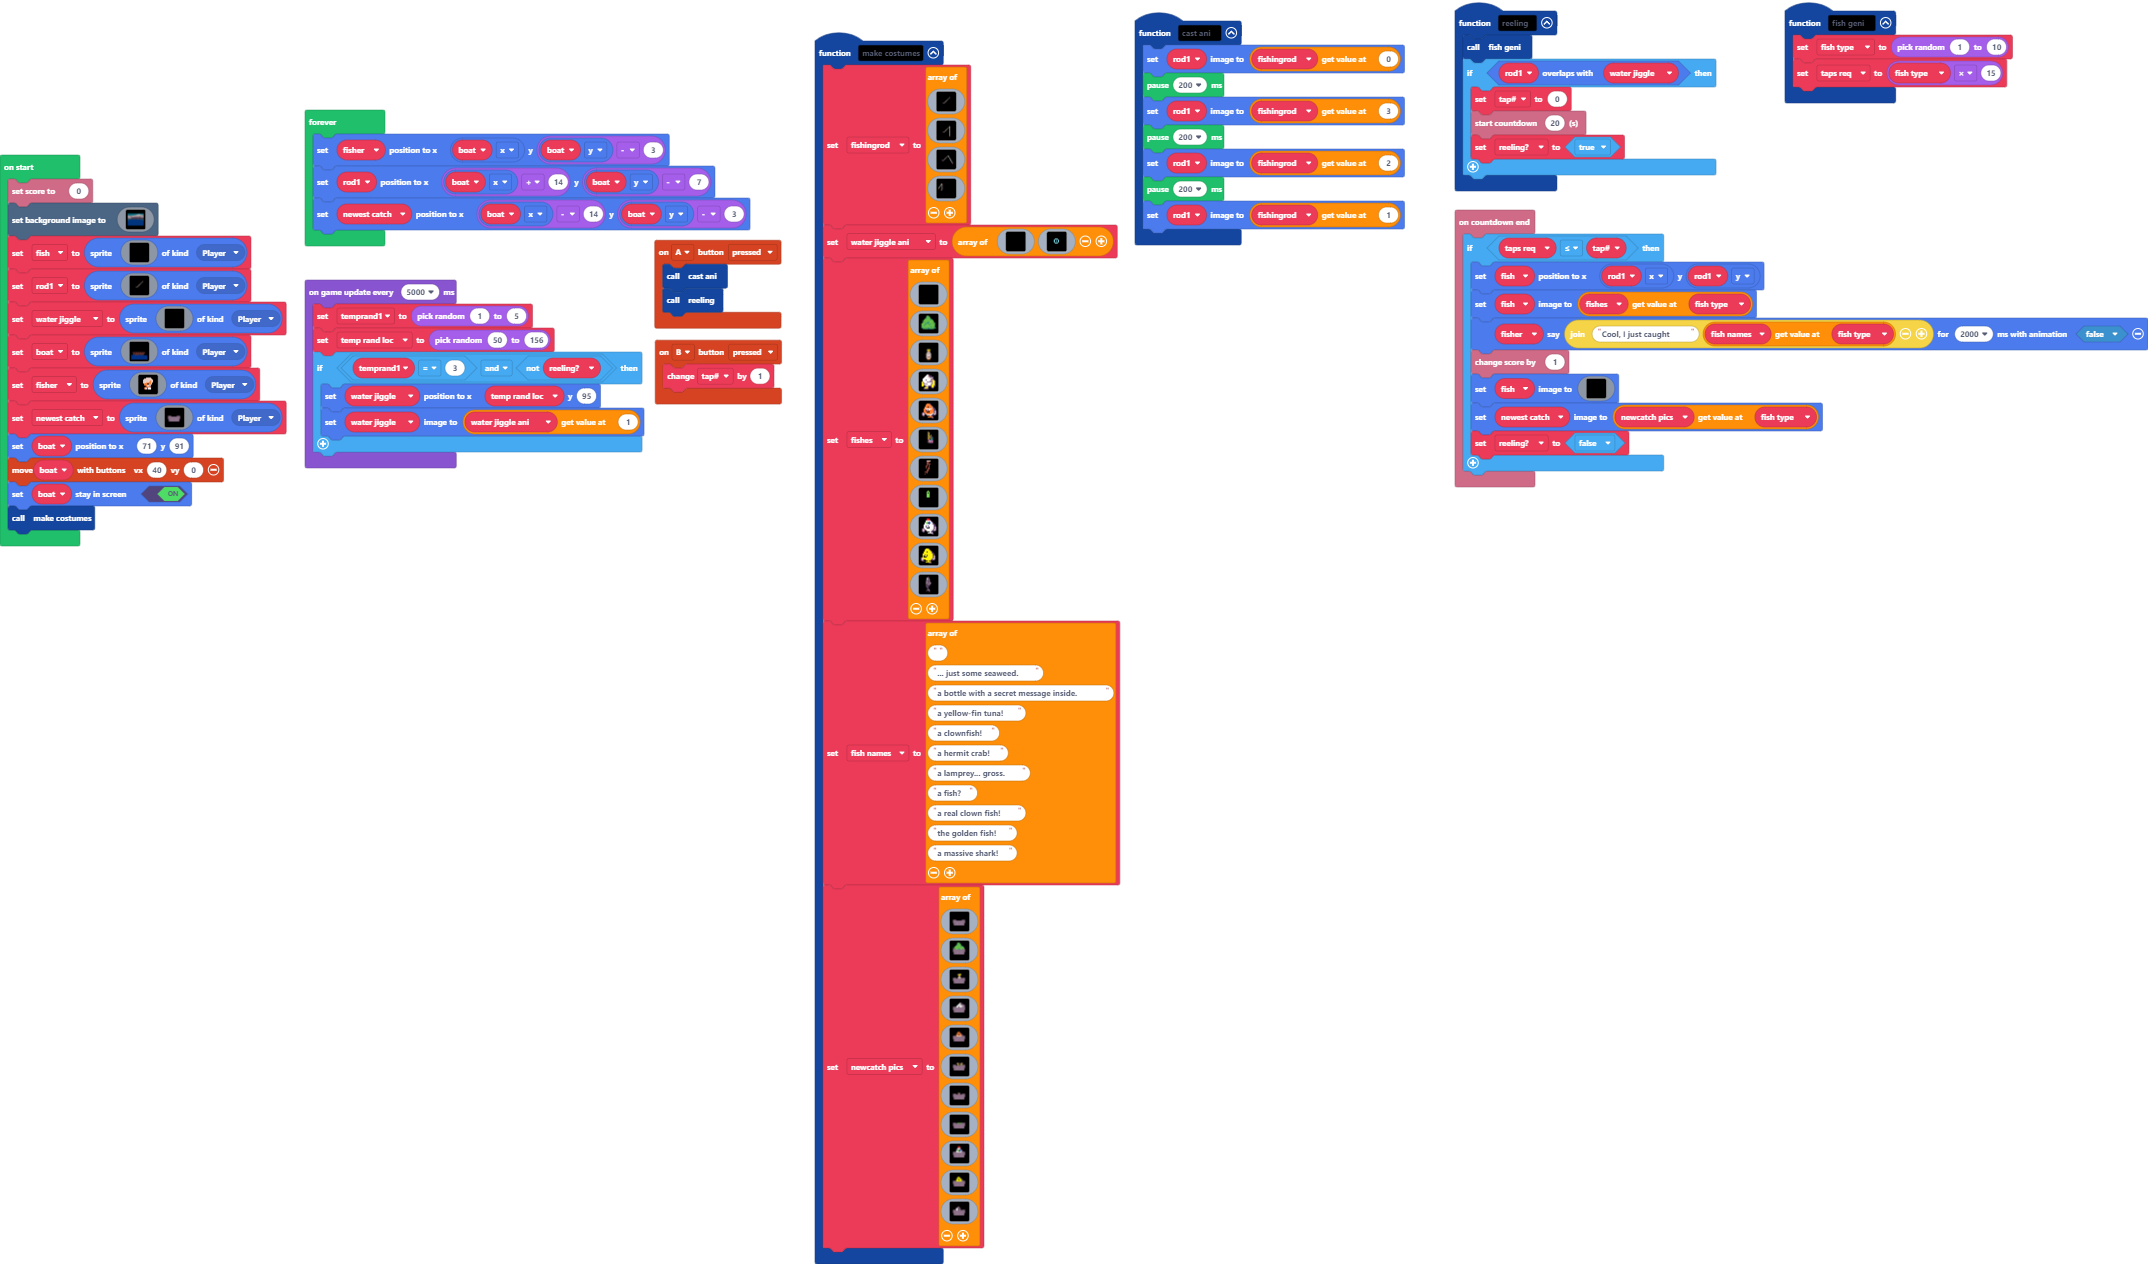
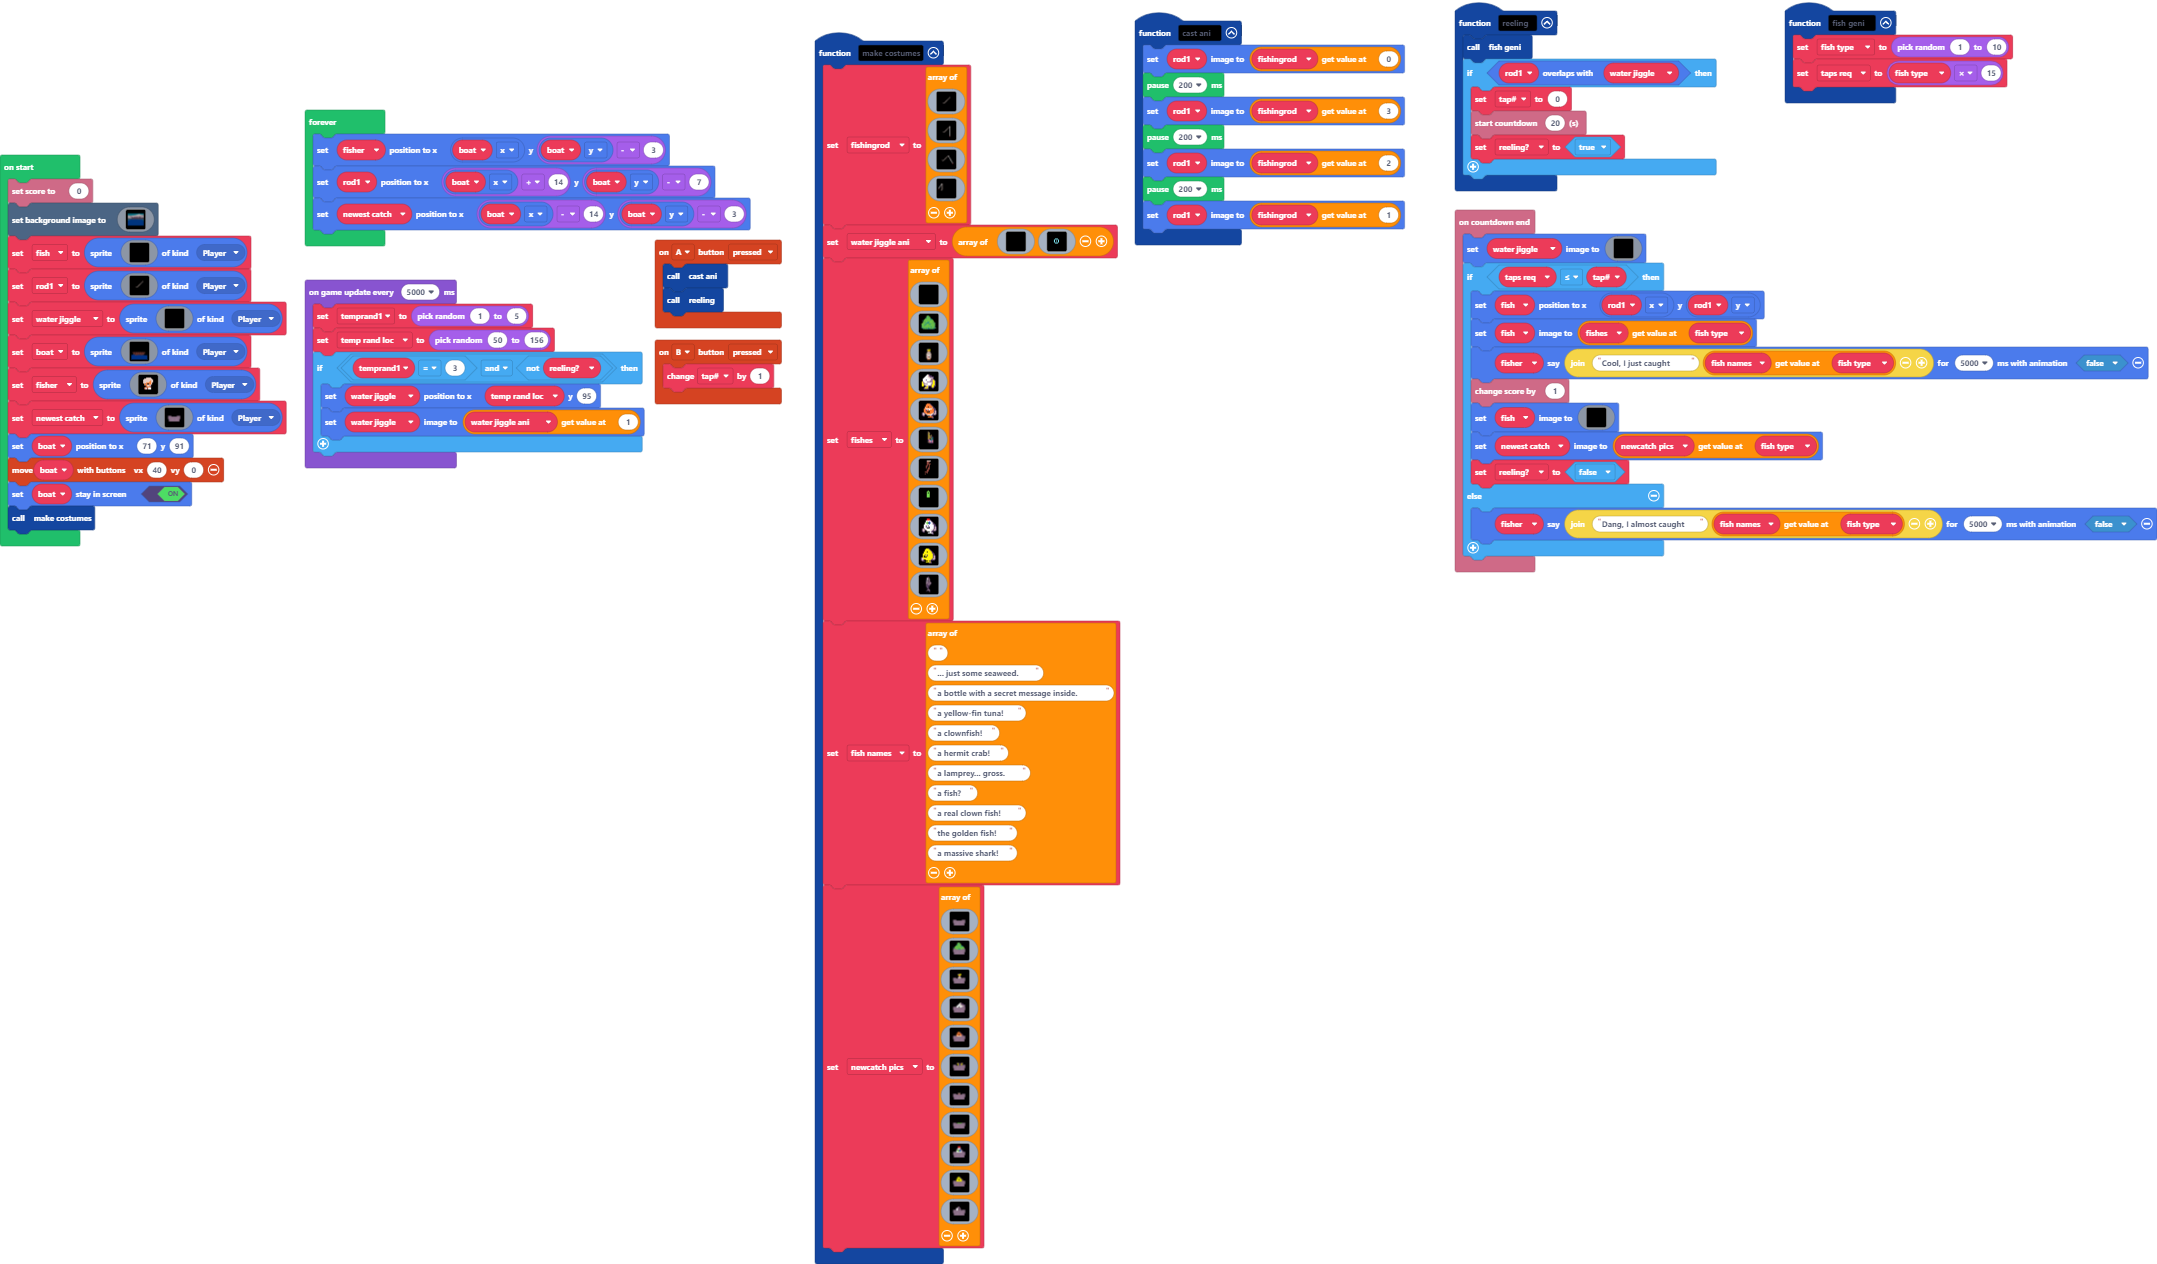
Update pxt.json, main.blocks, main.ts

Changed region(s): [[0.0624, 0.0, 0.9358, 1.0], [0.655, 0.1543, 1.0, 0.4628], [0.0624, 0.3394, 0.0936, 0.4011]]

diff --git a/main.ts b/main.ts
@@ -692,10 +692,28 @@ controller.A.onEvent(ControllerButtonEvent.Pressed, function () {
     reeling()
 })
 info.onCountdownEnd(function () {
+    water_jiggle.setImage(img`
+        . . . . . . . . . . . . . . . . 
+        . . . . . . . . . . . . . . . . 
+        . . . . . . . . . . . . . . . . 
+        . . . . . . . . . . . . . . . . 
+        . . . . . . . . . . . . . . . . 
+        . . . . . . . . . . . . . . . . 
+        . . . . . . . . . . . . . . . . 
+        . . . . . . . . . . . . . . . . 
+        . . . . . . . . . . . . . . . . 
+        . . . . . . . . . . . . . . . . 
+        . . . . . . . . . . . . . . . . 
+        . . . . . . . . . . . . . . . . 
+        . . . . . . . . . . . . . . . . 
+        . . . . . . . . . . . . . . . . 
+        . . . . . . . . . . . . . . . . 
+        . . . . . . . . . . . . . . . . 
+        `)
     if (taps_req <= tap) {
         fish.setPosition(rod1.x, rod1.y)
         fish.setImage(fishes[fish_type])
-        fisher.sayText("Cool, I just caught " + fish_names[fish_type], 2000, false)
+        fisher.sayText("Cool, I just caught " + fish_names[fish_type], 5000, false)
         info.changeScoreBy(1)
         fish.setImage(img`
             . . . . . . . . . . . . . . . . 
@@ -717,6 +735,8 @@ info.onCountdownEnd(function () {
             `)
         newest_catch.setImage(newcatch_pics[fish_type])
         reeling2 = false
+    } else {
+        fisher.sayText("Dang, I almost caught " + fish_names[fish_type], 5000, false)
     }
 })
 function cast_ani () {
